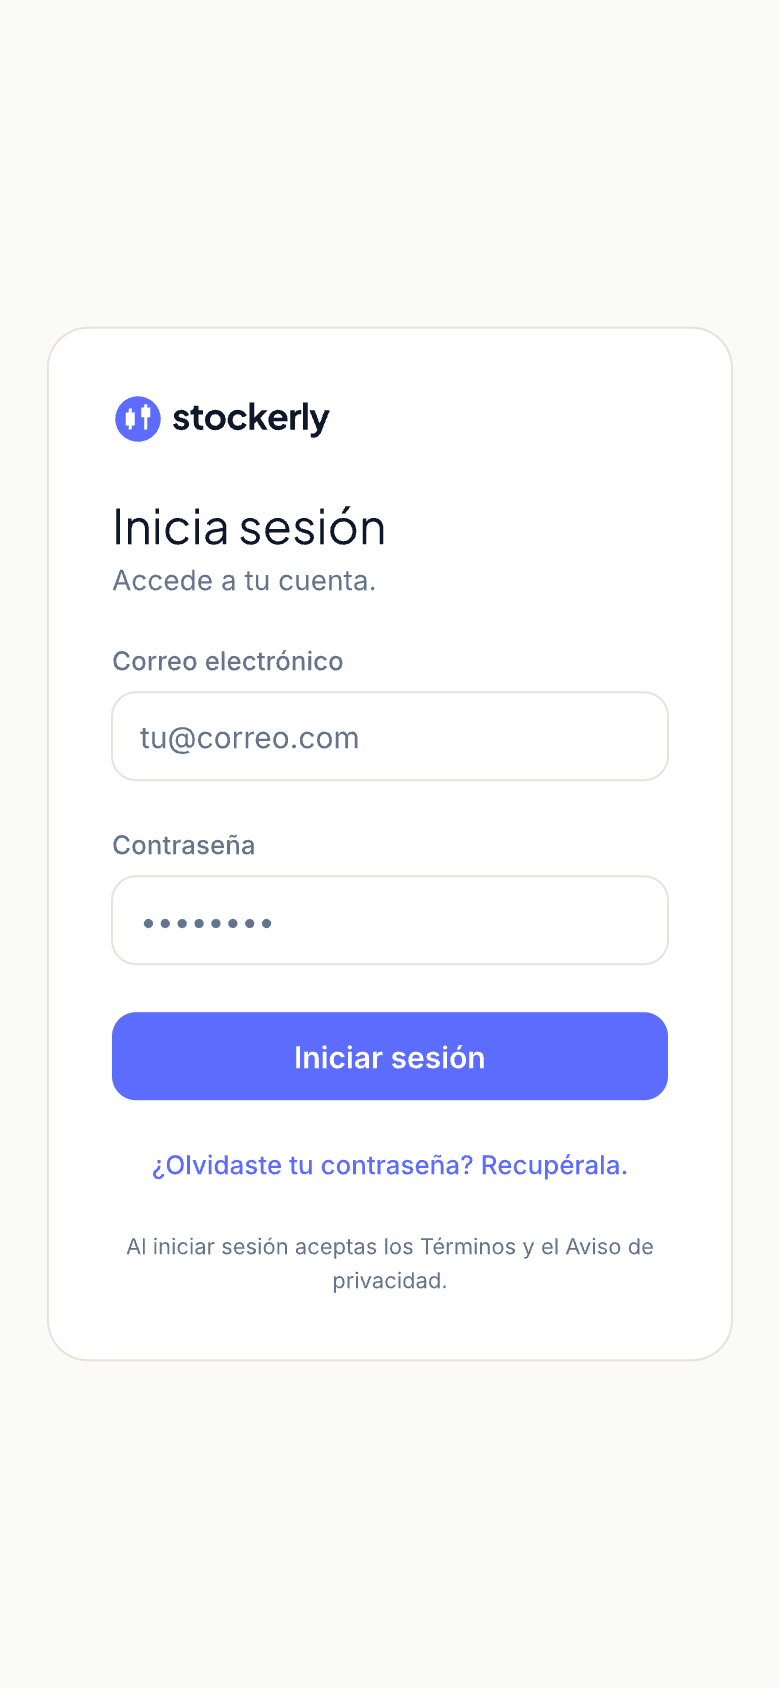
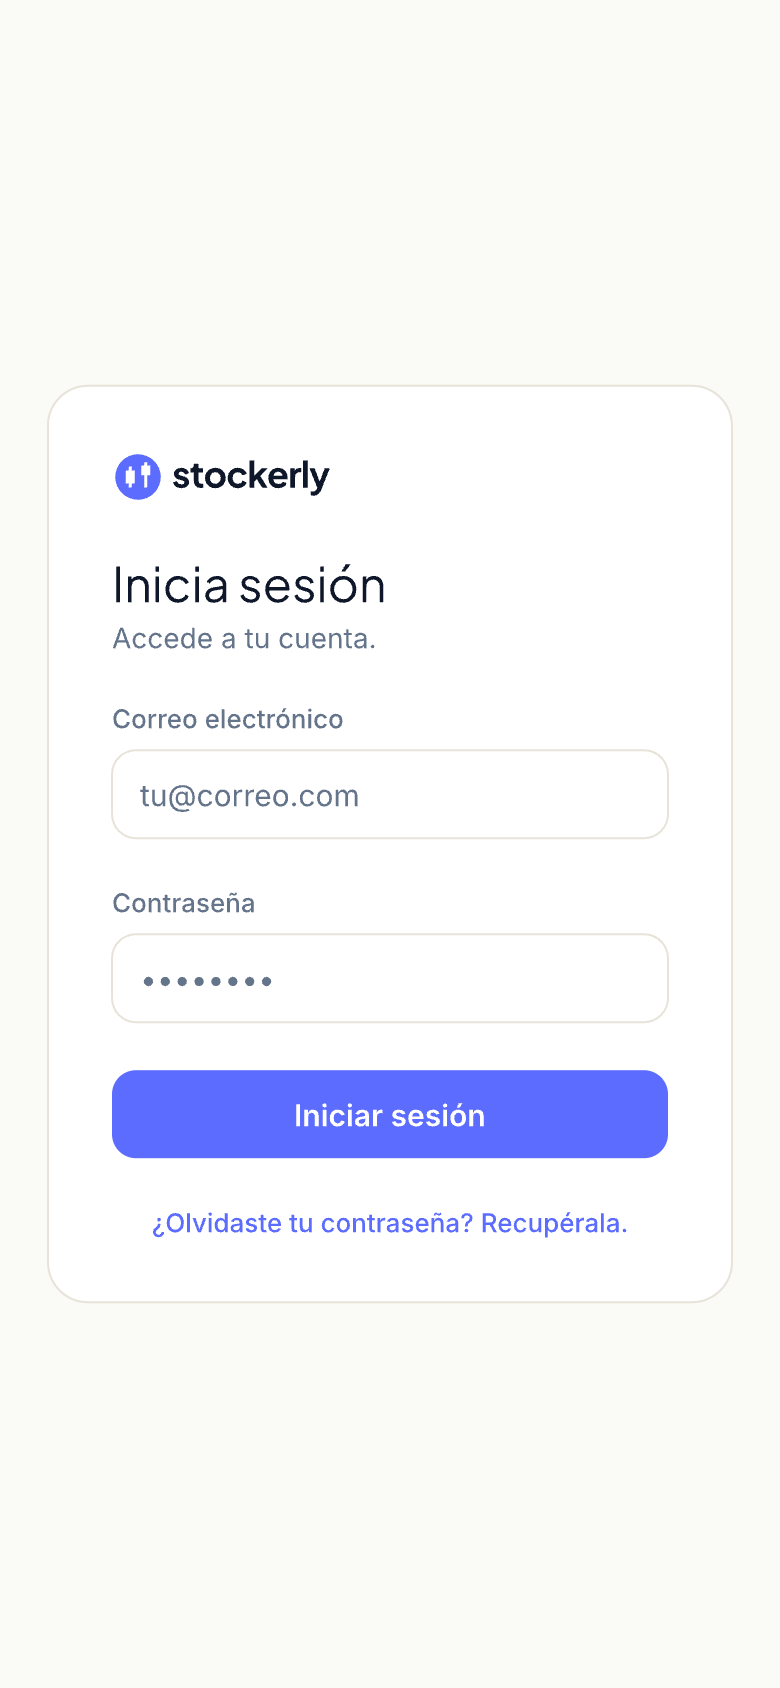
Drop the login terms line from the design, and record D118
flows/auth.pen stops drawing the terms line on the mobile and desktop
login, since the pages it linked to are gone (ADR-026); the two exports
are re-shot. D118 records the decision in the registry, and the
V2_REMAINING and CODE_CHANGES rows about the legal pages point at it.

Changed region(s): [[0.1231, 0.2156, 0.8615, 0.7701], [0.9231, 0.2156, 0.9538, 0.2464], [0.8308, 0.4313, 0.8615, 0.4621]]

diff --git a/design/DECISIONS.md b/design/DECISIONS.md
@@ -186,6 +186,7 @@ values, so entries also record forward design calls — each with what we picked
 | **D115** | The fundamentals explain themselves one metric at a time, behind a click | Keep the ⓘ as the only door · **The reading arrives without a click, at least on the extract** · Drop the guidance | ✅ **Resolved 2026-09-11 — Adrian's call, between three: the extract reads its own value in words (last paragraph).** Raised 2026-09-06 from Adrian's *"hacer fácil entender los fundamentos"*, and separated from [D113](#) on purpose. **The material is written and it does reach the screen** — all **36** metrics carry `nombre`, `desc` and `guia` in es-MX under `market.metricas.<key>.*`, the description under every row and the guidance behind the ⓘ ([`_metric_card.html.erb`](../app/views/market/_metric_card.html.erb)). Nothing is missing; the shape is the problem. **"Cómo leerlo" is 36 clicks, one per metric**, and the card shows **5 of 36** with the other 31 behind *Ver todos*. That is the second of the three failures [ADR-0010](../docs/architecture/adr/0010-pivot-to-self-hosted-single-user-tracker.md) named — *can't read the indicators* — still standing after the copy for it was written. **Why this is not blocked by D113:** explaining what a number measures is descriptive and ADR-001 always permitted it. What needs D113 is saying whether the number is **good** — and today only **3 of 36** metrics carry a chip, because [D36](#) allows one only where the threshold is definitional. The other 33 say nothing about the value beside them. Tying the two together stops the half that can ship today to wait on the half that cannot. ✅ **What shipped.** Each of the extract's five rows now carries, where the description used to sit, one sentence reading the value beside it — *Pagas 28 veces lo que gana por acción en un año*, *De cada 100 que vende, le quedan 63.7 de utilidad* — and never whether it is good. The description moves behind the ⓘ, under *Qué mide*, where it already sat, and the accordion keeps it: twenty-seven sentences would be the wall of text C5 Renata warned about, and depth is what the accordion is for. **The mechanism is ADR-014's, applied to a value instead of a state:** a pure rule per metric picks which phrase of `market.lecturas.<metric>.*` applies and the figures it carries — one phrase per case the production data shows, twelve in all: a loss makes P/U unreadable as a multiple (5 of 22 equities), a margin can lose more than it sells (MSTR, −61×), growth can fall or more than double, debt can be zero. Read across the mirror's 22 equities, **110 phrases, none absurd at the extremes.** **Rejected, with reasons:** the always-visible guidance, because it is the same paragraph on every asset and turns into wallpaper by the third visit; and the comparison against each metric's own history, [D70](#)'s step 2, which stays next if this is not enough — it reaches ~11 metrics and needs a query that does not exist. 🐞 **Found and fixed on the way:** *Crecimiento de ingresos* and *Crecimiento de UPA* described a change *"contra el trimestre anterior"* while both figures are Alpha Vantage's `…GrowthYOY`, the same quarter a year earlier — the line said the opposite of the number beside it. |
 | **D116** | The fundamentals card shows 8 of 36 registered metrics, and 34 downloaded keys are registered nowhere — measured before touching [D115](#) | Explain the 8 better · **Connect what is already downloaded first, then explain** · Retire the metrics nothing fills | ✅ **Resolved 2026-09-11 — connected before explained, as the entry asked, though not the way it proposed: the gap was a read and a window rather than the registry, and D36 registers two of the sixteen keys (last paragraph). [D115](#) stays open, now with 23 metrics to explain instead of 8. First measured 2026-09-07 against the production mirror, and it reordered D115 rather than answering it.** D115 says the guidance sits behind 36 clicks. Before designing that, the question was how many of the 36 a reader ever sees. **Measured through `LoadAssetDetail`, the path the controller actually takes:** the extract renders **2 of its 5** metrics — three em dashes in the most visible part of the card — and *Ver todos los fundamentales* opens **6 rows, not 31**. **Eight of 36 reach the screen**, identically across every asset that has a fundamentals row, because they all come from one provider with one field set. Three of ten holdings sampled (HODL, SPY, ARKB) have no fundamentals at all and render 0 of 5. 🎯 **The finding that decides the order: 34 stored keys are registered nowhere.** `AssetFundamental#metrics` carries `free_cash_flow`, `interest_coverage`, `analyst_target_price`, `book_value`, `profit_margin`, `ttm_ebitda`, `ttm_net_income`, `operating_cash_flow` and 26 more that `MetricDefinitions` never registered, so nothing can render them. **The data is already downloaded and already stored; it is thrown away at the registry.** Connecting a subset raises coverage without asking a provider for anything. 🔴 **Two false starts recorded, because the method is the point.** First measurement counted raw keys in `metrics` and concluded seven registered metrics were dead while their data sat under twin names (`pb_ratio`/`price_to_book`, `roe`/`return_on_equity`). **Wrong:** [`FundamentalPresenter`](../app/contexts/market_data/domain/fundamental_presenter.rb) already resolves those aliases and computes P/E, P/B and P/S live from `current_price`. Second measurement went through the presenter and returned 8 of 27 for every asset; that uniformity read as a bug and was doubted — **it was correct**, and the use-case path confirmed it. The lesson is the one D103 and D114 already paid for: **measure through the path production takes, not through the table.** **What this does not settle:** which of the 34 deserve registration is a judgement, not a consequence — [D36](#) governs it, and a metric with no defensible reading is worse registered than absent. `remaining_metrics_by_category` already drops empty rows, which is why the accordion shows 6 instead of 31; that filter is right and stays. 🔵 **CORRECTED 2026-09-11 — the 8 were not a registry gap, they were a read that stopped at the first row.** Every equity carries **two** `AssetFundamental` rows, `OVERVIEW` (Alpha Vantage) and `CALCULATED` (the statements calculator), and `LoadAssetDetail#resolve_fundamental` handed the presenter `calculated \|\| overview` — one or the other, never both. That line dates from February and sat dormant until [D109](#) (`8f781be1`, 2026-09-06) began taking the statements from yfinance: **all 22 `CALCULATED` rows in the mirror were created that day**, and from then on P/U, forward P/U, PEG, beta, the 52-week range, dividend yield, growth and market cap were read by nothing. So *"identically across every asset, because they all come from one provider"* was the right number with the wrong cause — they all came from **one row**. The same read blanked the P/U history on every stock, whose EPS lives in the overview, and `BroadcastFundamentalsUpdate` carried its own copy of the choice with no crypto branch, so every coin sync broadcast the empty state. **Fixed:** `AssetFundamental.for_reading` is the one place that orders the rows, the presenter takes the overview as a `fallback` that answers only where the calculated row is silent, and both readers use it. Re-measured through the use case: **8 → a median of 23 of 27** equity metrics, the extract **2 → 4–5 of 5**, the P/U history **0 → ~59 points**. Where both rows answer the calculated one still wins, so no figure on screen today changes. **The 34 was wrong too, by the method error this entry warns against:** it counted the aliases (`price_to_book`, `return_on_equity`, …) and the presenter's own inputs (`book_value`, `revenue_per_share`), all of which are read. Genuinely unregistered: **22**, and six of those (`name`, `symbol`, `description`, `country`, `currency`, `industry`) already feed the Ficha through `company_overview`. **The D36 question shrinks to 16 numeric keys** — and one registered metric turns out computable rather than missing: `payout_ratio` has no stored value, while `ttm_dividend_payout` and `ttm_net_income` sit in the calculated row. **Computed since 2026-09-11** — undefined rather than negative when nothing was earned, so D36's chip is not hidden behind a sign — and it reaches **8 of the 10 dividend payers**. The two it misses are TTM gaps, not formula gaps: ASML's dividends arrive as *Cash Dividends Paid* in three of four quarters while the bridge maps only *Common Stock Dividend Paid*, and AVGO's newest quarter is stored empty, so `calculate_ttm`'s all-four-quarters rule yields nothing for it at all. 🔴 **Measured the same day — the two rows do not disagree, they describe different years.** Recomputing each margin over the trailing four quarters the instance already stores reproduces Alpha Vantage's figure to the third decimal on every asset that has them (INTC −0.198 both, GOOG 0.548 both, MU 0.559 both): the overview is TTM, and the calculated row divides the **last annual statement**, which `RecalculateFundamentalsOnStatementsSynced` picks with `annual.recent.first` — up to a year old, since MU's fiscal year closed 2025-08-31. Since D109 the screen has shown those annual figures, and on two holdings the sign is wrong for today: COIN's net margin reads **+17.6%** where its last four quarters are **−15.7%**, CRCL's **−2.5%** where they are **+15.5%**. The `ttm_*` sums that would answer it sit in the same row, unread. AV's `OperatingMarginTTM` turned out to be the latest quarter rather than TTM, so on that metric neither provider figure is the reference — the instance's own quarters are. ✅ **Fixed 2026-09-11, Adrian's call:** `RecalculateFundamentalsOnStatementsSynced` now hands the calculator the last four quarters when all four carry the anchor (`total_revenue`, `operating_cashflow`) and the annual statement otherwise, and the balance ratios read the latest balance sheet of either period. **Never mixed key by key** — a margin with a TTM numerator over an annual denominator is worse than either — so a ratio whose inputs the quarters lack is left out: ASML and MSTR lose `interest_coverage`, which nothing registers. Run through the real handler on the mirror: COIN **−15.7%**, CRCL **+15.5%**, INTC **−19.8%**, MU **55.9%**; AMZN and AVGO keep their annual margins, their quarters being incomplete. It is not a new meaning but the old one restored — the screen read TTM from the overview for six months until D109. AAPL's current ratio moves 0.893 → 1.003 and crosses D36's chip threshold, which is a definitional threshold doing its job on fresher data. Production heals on the Sunday statements sync (`0 8 * * 0`). ✅ **Both TTM gaps closed the same day, and one was misdescribed above.** AVGO's newest quarter was not empty but an **earnings stub** — EPS and share counts, no revenue — because Yahoo publishes the release before the statements, and AMZN carried the same stub, which is why neither had a TTM. The trailing four now start at the newest quarter carrying the anchor, skipping a leading stub and **never a gap in the middle**, which would sum a year that was not. ASML's common dividends are read at the gateway out of *Cash Dividends Paid* less the preferred share: the two labels agreed 95 of 95 times where both appeared, and MSTR's cash dividends are **entirely preferred**, so it rightly carries none. On the mirror: AVGO net margin **0.3885** against AV's 0.389, payout **40.1%**; ASML **0.3011** against 0.301, payout **24.2%**. **AMZN reads 0.1222 against AV's 0.174, and that is a lag, not an error:** AV's EPS of 12.44 is the sum of four quarters ending Q2-2026, while the instance holds only Q2's stub — its TTM ends at Q1 and catches up when Yahoo files the statement. ✅ **D36's verdict on the sixteen, 2026-09-11 — Adrian's call, on the recommendation.** Two are registered, both under `health` and both chip-bearing, because their threshold is definitional rather than chosen: `interest_coverage` (*no cubre sus intereses* below 1.0 — the operating profit does not pay the interest) and `free_cash_flow` (*quema efectivo* below zero — more cash went out than came in, which its guidance notes is common in a company investing to grow). Both became trustworthy only with the TTM fix above — INTC's coverage read −0.02 on its annual statement and 3.75 on its last four quarters. On the mirror they reach **17 and 21 of 22** equities, and the chips fire on **2 and 4**: ECHO and SPCX on coverage; AMZN, ECHO, MSTR and SPCX on cash. **The other fourteen are rejected, each for a reason:** `analyst_target_price` is a third party's forecast of where the price should go — ADR-001's line — and FMP stores its DCF under the same key, two concepts under one name; `ev_to_revenue` restates P/S; `ttm_total_revenue`, `ttm_ebitda`, `ttm_gross_profit`, `gross_profit_ttm`, `ttm_net_income` and `ttm_operating_income` are answered already, by `revenue_ttm` and `ebitda` from the overview and by the three margins; `operating_cash_flow`, `ttm_operating_cashflow`, `ttm_capital_expenditures`, `ttm_interest_expense` and `ttm_dividend_payout` are inputs, not readings; `ttm_research_and_development` has a reading only against its industry, which D36 rules out. |
 | **D117** | The two `Mi posición` elements that are drawn and unbuilt: the `Equity` sparkline and *"12% de tu cartera"* ([#615](https://github.com/rodacato/stockerly/issues/615), under [D78](#)'s carve-out) | Build both · Retire both · **Retire the sparkline, build the share** | ✅ **Split verdict — Adrian's call, 2026-09-11, one per element, which is what D78 requires.** 🗑 **The `Equity` sparkline is retired.** It plots the position's value over time, which is genuinely a different series from the asset's price — and that difference is the entire case for it, assembled after the drawing rather than before. It was drawn in August with **no trigger**, and the screen it would land on already carries a chart that since [D93](#) has a range control and an OHLC readout. A second, smaller, unlabelled line beneath it is the shape #615 named in its own words: *"the kind of thing that gets built because it was drawn."* 🔴 **CORRECTED 2026-09-11, hours after this row was written: the retirement had already happened, and this entry claimed work that was done.** It said the `cockpit.pen` amendment was pending a canvas session. Measured at the canvas instead: the `Mi posición` artboard contains **no `path` node at all** — its only non-text, non-frame children are refs and icons — and the `Rendimiento` block holds a header plus five windows, no line. [D97](#) retired the sparkline on **2026-09-06**, five days earlier, and scoped itself to the sparkline alone precisely so the share figure would keep owing a verdict. `cockpit.pen`'s Log carries the date: *"Rendimiento loses its Equity sparkline — retired, not deferred (#615, D97). The share figure stays drawn and still owes its own verdict."* **So this row's retire half was already executed and its build half is the only thing it adds** — which is what D97 asked for. The cause is worth keeping: #615's text was written before D97 and was taken at face value instead of re-measured, which is the failure `docs/ops/github-workflow.md` § Common mistakes 8 exists to prevent, committed by the entry that spent the same session naming it in other people's cards. 🏗 **"12% de tu cartera" is built.** [#301](https://github.com/rodacato/stockerly/issues/301)'s own measurement already settled the cost — *"position value over portfolio value, today"* — not a table, not a domain design. It answers a question the screen provokes by existing, and it is the only reading on `Mi posición` that places the position against the whole. **It still owes its 4-filter card before anyone writes it:** the verdict is *build*, not a licence to skip discovery. 🎯 **What this closes is the ride, not the questions.** Both elements were riding on #301, whose subject shipped with `Rendimiento` (#611 → #612); each now carries its own verdict and neither is waiting on the other. |
+| **D118** | The login artboard draws a terms line pointing at legal pages a self-hosted instance has no use for | Keep the pages, make the operator configurable · Keep the pages as they are · **Remove the pages and the line: the license carries the terms** | ✅ **Resolved 2026-09-13 — Adrian's call, recorded as [ADR-026](../docs/architecture/adr/0026-no-legal-pages-on-a-self-hosted-instance.md).** Surfaced while moving the hostname to `APP_HOST`: [D91](#) kept `SUPPORT_EMAIL` because `/privacy`, `/terms` and `/risk-disclosure` publish it, and those pages name Adrian as the data controller on *every* instance. Making the operator configurable was drafted first; Adrian questioned the premise — *"me inclino a que no son necesarios si es open source self hosted under your own risk, es más parte de license del repo"*. On a single-user instance the operator is the only data subject and the author receives nothing, so a privacy notice has no addressee; terms need a provider and a client, and ADR-013's condition is that there is no service. **Gone:** the three routes and views, `LegalController`, the `legal` layout, the footer's Legal column, the login's terms line (`auth.login.terminos_html`), `SUPPORT_EMAIL` and the welcome/help line that mailed it, `users.consents_data_processing_at`, and `docs/ops/arco-procedure.md`. **Stays:** the one-line *"No constituye asesoría de inversión"* on the asset screen, without its two links — product copy with a reader since D113. **Artboard:** `flows/auth.pen` login drops the terms line so the design stops drawing what the code no longer ships. |
 
 ## Changes to make in code (once decisions land)
 

diff --git a/design/V2_REMAINING.md b/design/V2_REMAINING.md
@@ -156,7 +156,7 @@ grep -rcE '\bt\('                          app/views/<dir> | awk -F: '{x+=$NF} E
 | `shared` | 0 | 40 | **0** | ◐ copy | mixed |
 | `welcome` · `help` | 0 | 2 · 2 | **0** | ◐ copy | yes · no — ONB-3 |
 | `bug_reports` | 0 | 11 | **0** | ◐ copy | **no** |
-| `legal` | 0 | 89 | **0** | ◐ copy | **no** — deliberate, S5 |
+| ~~`legal`~~ | — | — | — | — | **removed 2026-09-13** — D118 / ADR-026 |
 | mailers (`alert` · `user` · `bug_report`) | 0 | 0 | **0** | ◐ copy | **no** |
 
 **The pre-2.0 palette is gone from `app/views` entirely** — `grep -rcE '\b(slate|gray)-[0-9]+'
@@ -1856,7 +1856,7 @@ tell unfinished work from a decision, and these are the rows where the test cann
 | Surface | i18n | Note |
 |---|---:|---|
 | `/profile` | 0 keys | AJU-1 — the one that matters |
-| `/privacy`, `/terms`, `/risk-disclosure` | 0 keys | legal; deliberately verbatim, per S5 |
+| ~~`/privacy`, `/terms`, `/risk-disclosure`~~ | — | removed 2026-09-13 — D118 / ADR-026 |
 | `/help` | 0 keys | shares `_welcome_body` with `/welcome`, which *is* drawn |
 | `/report-bug` | 0 keys | |
 | `/trades` (index) | 16 keys | ACT-3 — and unreachable |

diff --git a/design/CODE_CHANGES.md b/design/CODE_CHANGES.md
@@ -204,8 +204,9 @@ stayed pre-2.0.
   exists (S11 #147), and `RequestPasswordReset` does the silent no-op. **"Reenviar enlace" returns
   to the form** rather than resending, for the same reason: a real resend needs the address held
   somewhere.
-- ⚠ **Risk disclosure is no longer one click from login.** The auth layout has no public footer, and
-  the artboard's terms line carries two links. It stays reachable from the legal pages.
+- ~~⚠ **Risk disclosure is no longer one click from login.** The auth layout has no public footer, and
+  the artboard's terms line carries two links. It stays reachable from the legal pages.~~ Moot since
+  2026-09-13: the legal pages and the login's terms line are gone (D118).
 - 🐞 **The wordmark has been cut off across the entire site.** `logo_light.svg` and `logo_dark.svg`
   declare `viewBox="0 0 130 40"`, and the text starts at `x="32"` at `font-size="22"` — roughly
   142px of artwork in a 130px box, so the final "y" was clipped everywhere the logo renders. Widened
